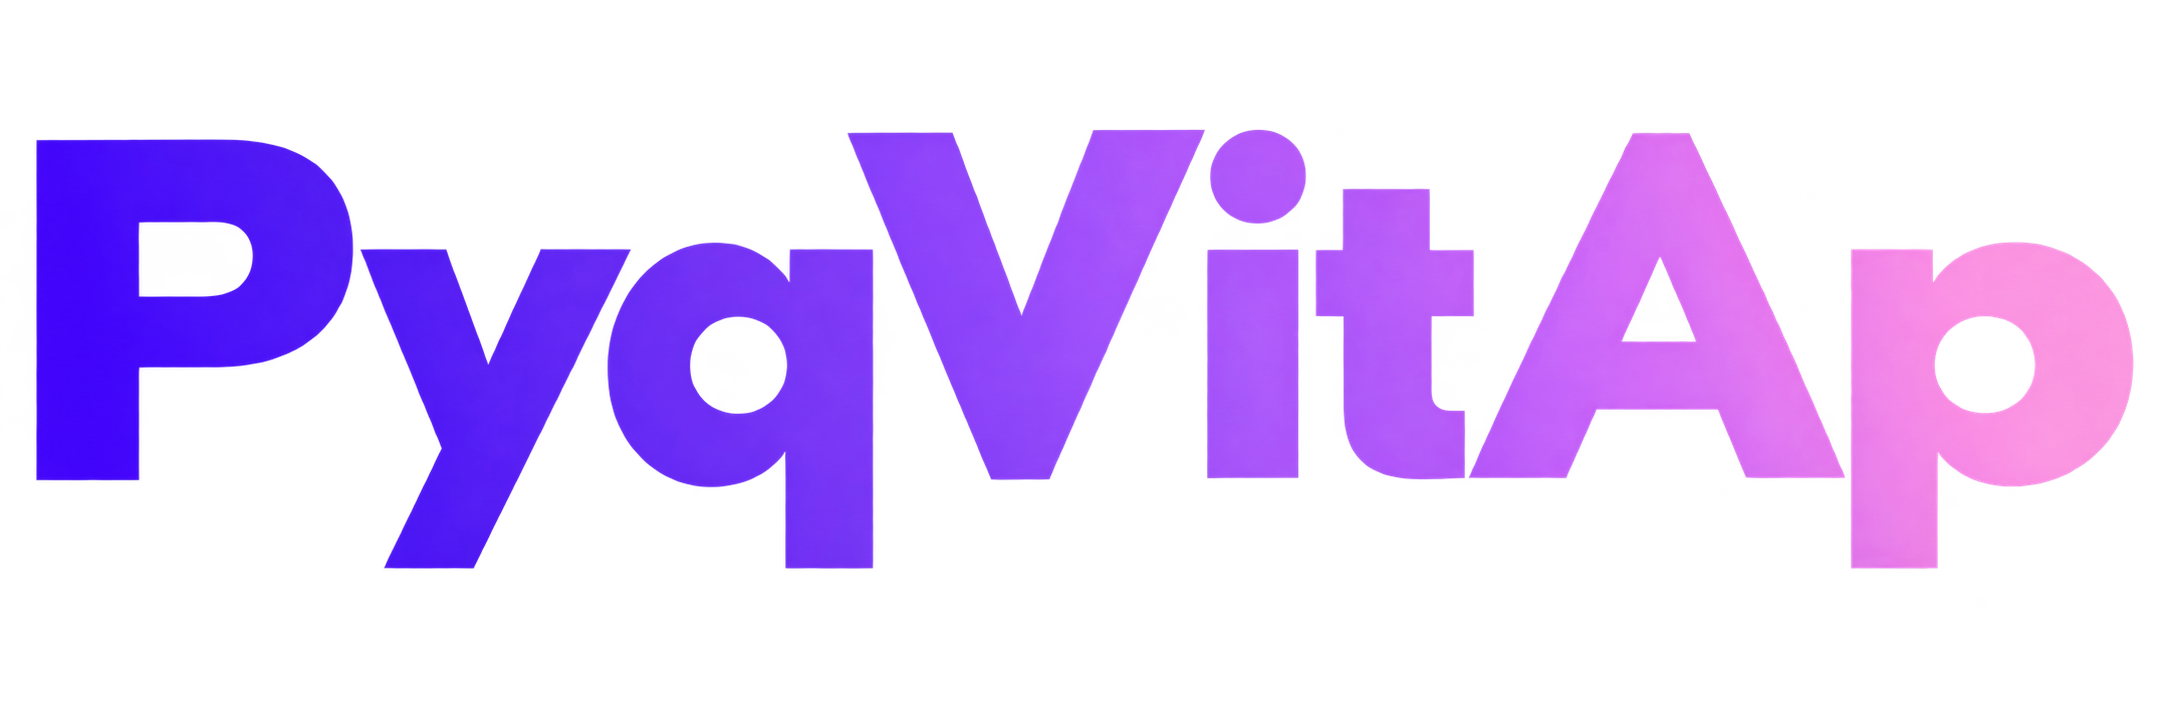
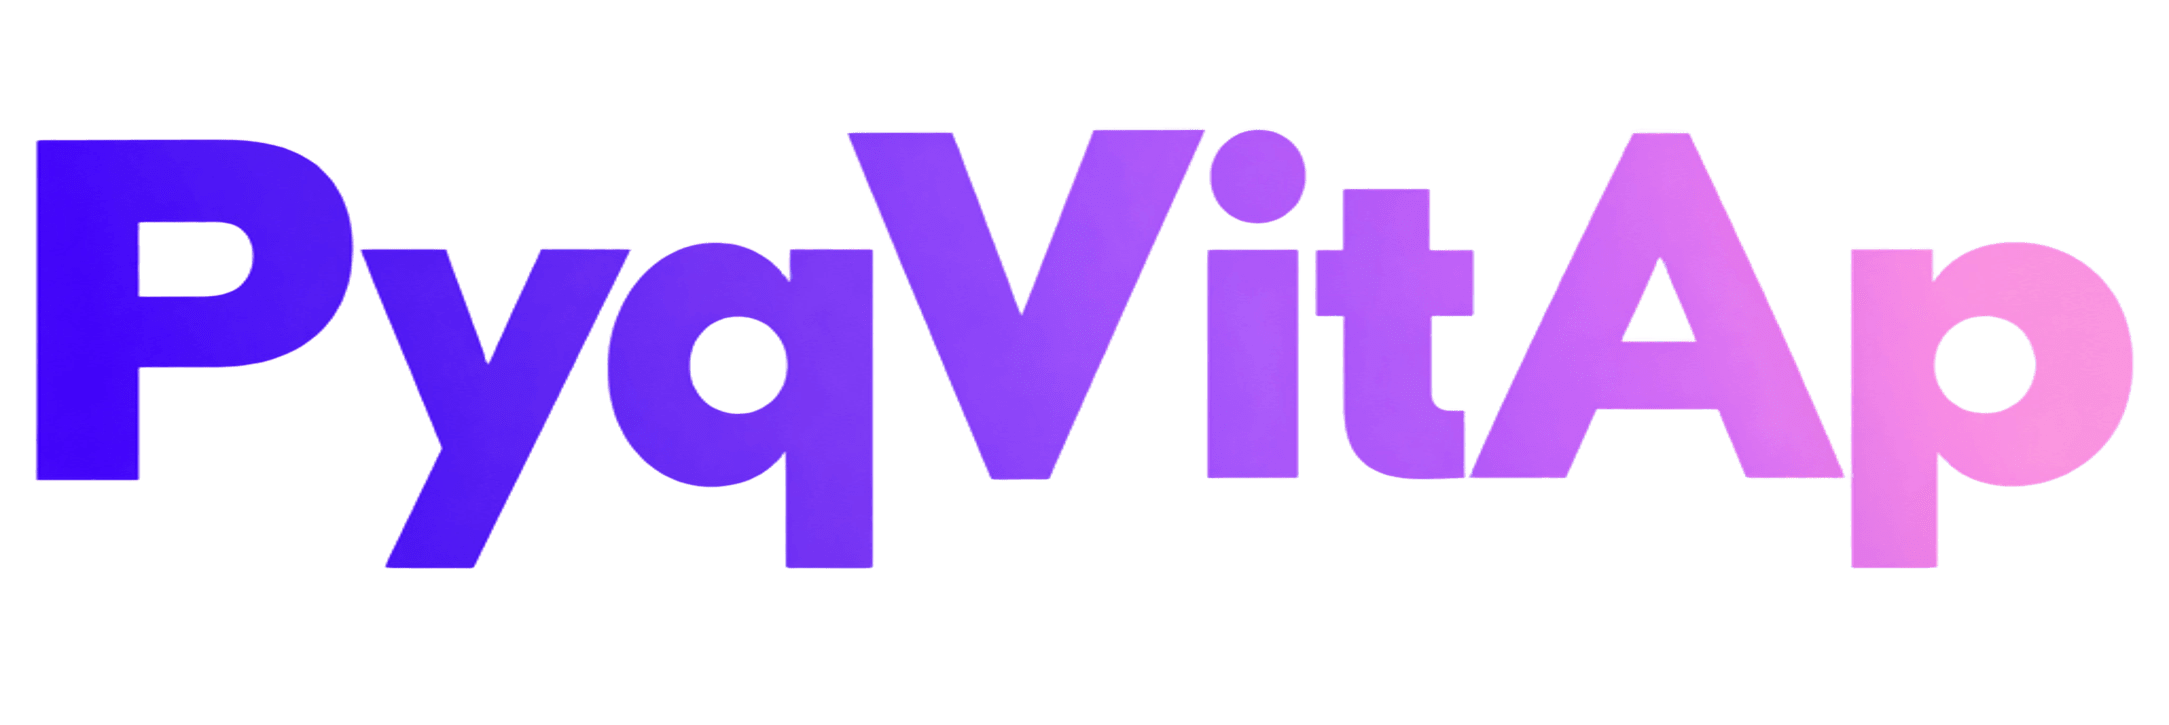
fix(assets): update PyqVitAp wordmark to transparent PNG

diff --git a/templates/email/verification-code.html b/templates/email/verification-code.html
@@ -14,7 +14,7 @@
         </re-block>
         <re-block padding="24px 12px 12px 12px" margin="0" background-color="#ffffff" align="center">
             <re-text align="center" margin="0" font-size="24px" line-height="76px" color="#111827">
-                <img src="https://pyqvitap.site/assets/images/email-otp-icon-512x512-v5.jpg" width="64" height="64" alt="PyqVitAp logo" style="vertical-align:middle;display:inline-block;border-radius:14px;margin-right:14px;width:64px;height:64px;"><img src="https://pyqvitap.site/assets/images/pyqvitap-wordmark.jpg" width="230" alt="PyqVitAp" style="vertical-align:middle;position:relative;top:3px;display:inline-block;width:230px;max-width:65%;height:auto;">
+                <img src="https://pyqvitap.site/assets/images/email-otp-icon-512x512-v5.jpg" width="64" height="64" alt="PyqVitAp logo" style="vertical-align:middle;display:inline-block;border-radius:14px;margin-right:14px;width:64px;height:64px;"><img src="https://pyqvitap.site/assets/images/pyqvitap-wordmark.png" width="230" alt="PyqVitAp" style="vertical-align:middle;position:relative;top:3px;display:inline-block;width:230px;max-width:65%;height:auto;">
             </re-text>
         </re-block>
         <re-block padding="16px 28px 30px 28px" margin="0" background-color="#ffffff" align="center">
